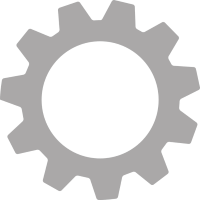
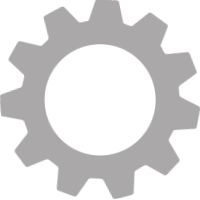
Updated activities

diff --git a/index.html b/index.html
@@ -27,8 +27,9 @@
         <meta name="generator" content="WordPress 4.5.3" />
         
         <style type="text/css">
+			/* ====== COMMON STYLES ====== */
             body {
-                background: url('./blueprint.jpg') fixed;
+                background: #010c4b url('./blueprint.jpg') fixed;
                 margin: 0px;
 				font-family: Geneva, Arial, Helvetica, sans-serif;
             }
@@ -41,6 +42,9 @@
 			.floatright {
 				float: right;
 			}
+			.clear {
+				clear: both;
+			}
 			.maxwidth {
 				width: 900px;
 				margin: 0px auto;
@@ -50,6 +54,7 @@
 				padding: 5px;
 				background: #FFF;
 			}
+			/* ====== HEADER ====== */
 			#header {
 				position: absolute;
 				width: 100%;
@@ -81,14 +86,20 @@
 			.header-menu a:hover {
 				background: #00566f;
 			}
+			.logo-link {
+				text-decoration: none;
+				display: block;
+				margin: 0px auto;
+			}
 			#logo {
 				width: 270px;
 				display: block;
 				margin: 0px auto;
 				position: relative;
 			}
+			/* ====== IDEA SECTION ====== */
             #idea {
-				padding: 360px 0 50px;
+				padding: 340px 0 50px;
 				text-align: center;
             }
 			#idea h1 {
@@ -108,11 +119,12 @@
 				cursor: pointer;
 			}
 			#idea button:hover {
-				background: #00789D;
+				background: #055196;
 			}
+			/* ====== ACTIVITIES SECTION ====== */
 			#activities {
 				background: #e6e6e6;
-				height: 500px;
+				min-height: 500px;
 				padding: 50px 0px 50px;
 			}
 			#activities h3 {
@@ -121,6 +133,34 @@
 				font-size: 30px;
 				text-align: center;
 			}
+			.activities-wrapper {
+				margin-top: 30px;
+			}
+			#activities figure {
+				position: relative;
+				width: 200px;
+				margin: 12px;
+				float: left;
+				/*background: red;*/
+			}
+			.gear {
+				width: 200px;
+				height: 200px;
+				background: url('./gear.png');
+				position: absolute;
+			}
+			#activities figure img {
+				margin: 44px;
+				width: 112px;
+				height: 112px;
+			}
+			#activities figure h6 {
+				text-align: center;
+				font-size: 20px;
+				margin: 20px 0px 0px;
+				color: #4a4a4a;
+			}
+			/* ====== NEWS SECTION ====== */
 			#news {
 				background: #00789D;
 				height: 500px;
@@ -132,6 +172,7 @@
 				font-size: 30px;
 				text-align: center;
 			}
+			/* ====== FEEDBACK SECTION ====== */
 			#feedback {
 				height: 500px;
 				padding: 50px 0px 50px;
@@ -148,6 +189,7 @@
 				padding: 0px;
 				min-height: 180px;
 			}
+			/* ====== FOOTER ====== */
 			#footer {
 				height: 200px;
 				background: #303135;
@@ -165,8 +207,9 @@
 					<a class="header-menu-button floatright" href="#">Услуги</a>
 					<a class="header-menu-button floatright" href="#">Статьи</a>
 				</nav>
+				<div class="clear"></div>
 			</div>
-			<img id="logo" src="./logo-white.png" alt="ЦМИТ ФабЛаб ТюмГУ">
+			<a class="logo-link" href="#"><img id="logo" src="./logo-white.png" alt="ЦМИТ ФабЛаб ТюмГУ"></a>
         </header>
         <section id="idea">
 			<h1>ФабЛаб - лаборатория для<br>воплощения ваших идей</h1>
@@ -174,8 +217,56 @@
         </section>
         <section id="activities">
 			<h3>Деятельность</h3>
-			<div class="maxwidth">
-				
+			<div class="activities-wrapper maxwidth">
+				<figure>
+					<div class="gear"></div>
+					<img src="./square-image.jpg" alt="Работа с детьми">
+					<h6>Работа с детьми</h6>
+					<p>Проектная работа — специальный вид курсов, где на протяжении одного проекта дети используют свои знания и умения самых разных областей, приумножая их.</p>
+				</figure>
+				<figure>
+					<div class="gear"></div>
+					<img src="./square-image.jpg" alt="Работа с детьми">
+					<h6>Работа с детьми</h6>
+					<p>Проектная работа — специальный вид курсов, где на протяжении одного проекта дети используют свои знания и умения самых разных областей, приумножая их.</p>
+				</figure>
+				<figure>
+					<div class="gear"></div>
+					<img src="./square-image.jpg" alt="Работа с детьми">
+					<h6>Работа с детьми</h6>
+					<p>Проектная работа — специальный вид курсов, где на протяжении одного проекта дети используют свои знания и умения самых разных областей, приумножая их.</p>
+				</figure>
+				<figure>
+					<div class="gear"></div>
+					<img src="./square-image.jpg" alt="Работа с детьми">
+					<h6>Работа с детьми</h6>
+					<p>Проектная работа — специальный вид курсов, где на протяжении одного проекта дети используют свои знания и умения самых разных областей, приумножая их.</p>
+				</figure>
+				<figure>
+					<div class="gear"></div>
+					<img src="./square-image.jpg" alt="Работа с детьми">
+					<h6>Работа с детьми</h6>
+					<p>Проектная работа — специальный вид курсов, где на протяжении одного проекта дети используют свои знания и умения самых разных областей, приумножая их.</p>
+				</figure>
+				<figure>
+					<div class="gear"></div>
+					<img src="./square-image.jpg" alt="Работа с детьми">
+					<h6>Работа с детьми</h6>
+					<p>Проектная работа — специальный вид курсов, где на протяжении одного проекта дети используют свои знания и умения самых разных областей, приумножая их.</p>
+				</figure>
+				<figure>
+					<div class="gear"></div>
+					<img src="./square-image.jpg" alt="Работа с детьми">
+					<h6>Работа с детьми</h6>
+					<p>Проектная работа — специальный вид курсов, где на протяжении одного проекта дети используют свои знания и умения самых разных областей, приумножая их.</p>
+				</figure>
+				<figure>
+					<div class="gear"></div>
+					<img src="./square-image.jpg" alt="Работа с детьми">
+					<h6>Работа с детьми</h6>
+					<p>Проектная работа — специальный вид курсов, где на протяжении одного проекта дети используют свои знания и умения самых разных областей, приумножая их.</p>
+				</figure>
+				<div class="clear"></div>
 			</div>
         </section>
         <section id="news">
@@ -188,7 +279,13 @@
 			<h3>Напишите нам</h3>
 			<div class="maxwidth">
 				<div class="textarea-wrapper">
-					<textarea placeholder="Ваше сообщение"></textarea>
+					<textarea placeholder="Ваше сообщение">
+TODO:
+- Адаптация под мобильные устройства
+- Секция новостей
+- Форма обратной связи
+- Нижняя часть страницы (footer)
+					</textarea>
 				</div>
 			</div>
         </section>
